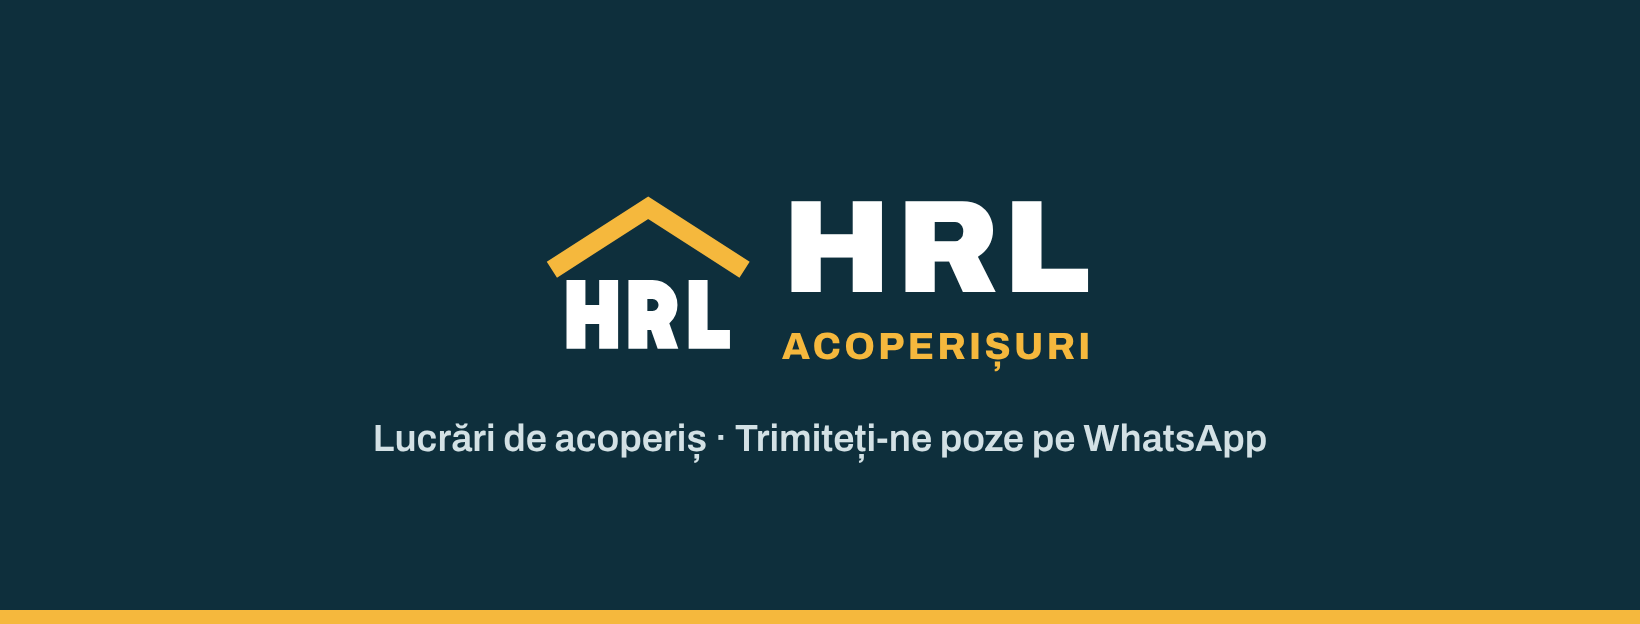
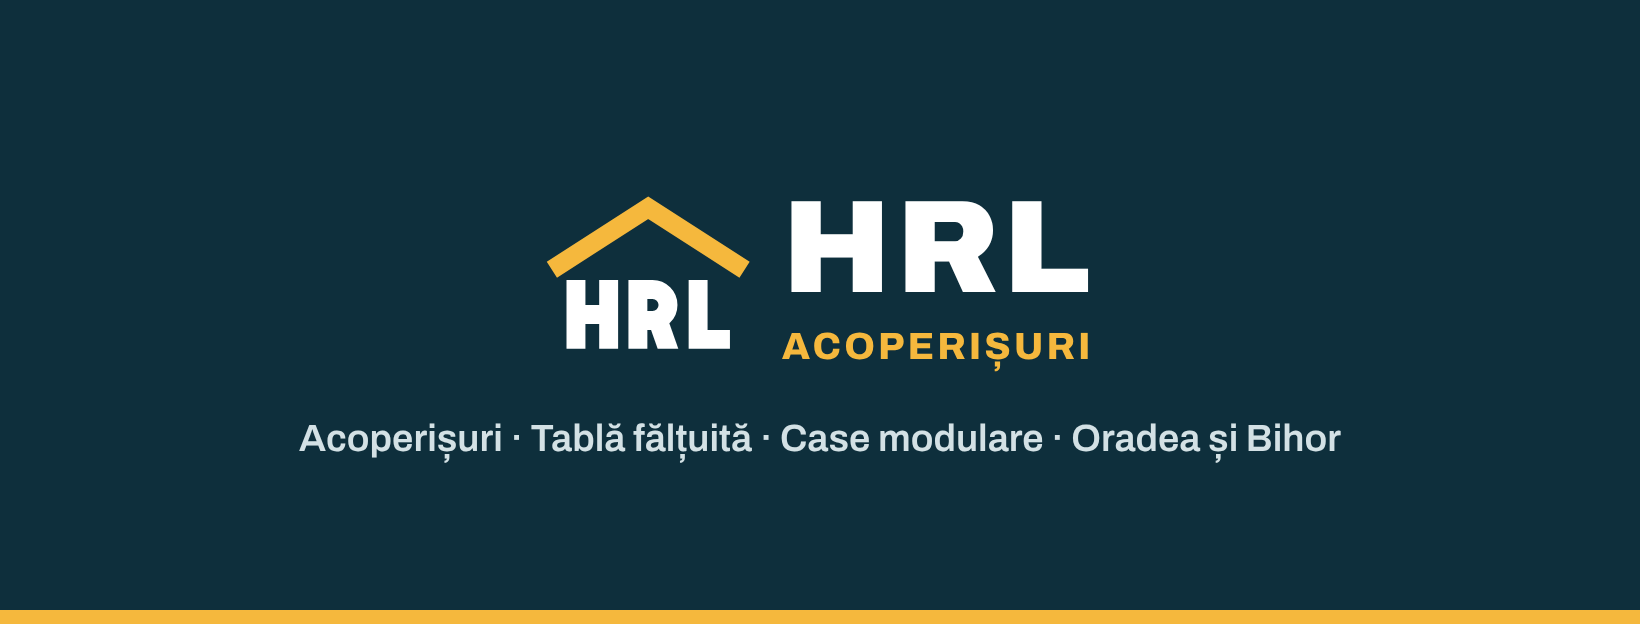
HRL Acoperișuri: his full list of jobs, all of Bihor, new cover tagline
Claude-Session: https://claude.ai/code/session_01UEuiXVKSENRnYrTC71c9hz

Changed region(s): [[0.1866, 0.6699, 0.8085, 0.7308]]

diff --git a/hrl-acoperisuri/brand/sursa-brand.html b/hrl-acoperisuri/brand/sursa-brand.html
@@ -19,7 +19,7 @@
 <br>
 <div class="logo light" id="logoalb"><svg xmlns="http://www.w3.org/2000/svg" viewBox="0 -3 120 93" role="img" aria-label="HRL Acoperișuri"><polyline points="4,41 60,5 116,41" fill="none" stroke="#F5B83D" stroke-width="11" stroke-linejoin="miter" stroke-linecap="butt"/><path d="M18.0,47V87M37.0,47V87M18.0,67H37.0" stroke="#FFFFFF" stroke-width="11" fill="none"/><path d="M54.0,47V87M54.0,52.5H62.5A9,9 0 0 1 62.5,70.5H54.0" stroke="#FFFFFF" stroke-width="11" fill="none" stroke-linejoin="miter"/><polygon points="59.5,70 71.5,70 77.5,87 65.5,87" fill="#FFFFFF"/><path d="M89.0,47V81.5H107.5" stroke="#FFFFFF" stroke-width="11" fill="none" stroke-linejoin="miter"/></svg><div><div class="w1">HRL</div><div class="w2">ACOPERIȘURI</div></div></div>
 <div id="profil"><svg xmlns="http://www.w3.org/2000/svg" viewBox="0 -3 120 93" role="img" aria-label="HRL Acoperișuri"><polyline points="4,41 60,5 116,41" fill="none" stroke="#F5B83D" stroke-width="11" stroke-linejoin="miter" stroke-linecap="butt"/><path d="M18.0,47V87M37.0,47V87M18.0,67H37.0" stroke="#FFFFFF" stroke-width="11" fill="none"/><path d="M54.0,47V87M54.0,52.5H62.5A9,9 0 0 1 62.5,70.5H54.0" stroke="#FFFFFF" stroke-width="11" fill="none" stroke-linejoin="miter"/><polygon points="59.5,70 71.5,70 77.5,87 65.5,87" fill="#FFFFFF"/><path d="M89.0,47V81.5H107.5" stroke="#FFFFFF" stroke-width="11" fill="none" stroke-linejoin="miter"/></svg></div>
-<div id="coperta"><div class="logo light"><svg xmlns="http://www.w3.org/2000/svg" viewBox="0 -3 120 93" role="img" aria-label="HRL Acoperișuri"><polyline points="4,41 60,5 116,41" fill="none" stroke="#F5B83D" stroke-width="11" stroke-linejoin="miter" stroke-linecap="butt"/><path d="M18.0,47V87M37.0,47V87M18.0,67H37.0" stroke="#FFFFFF" stroke-width="11" fill="none"/><path d="M54.0,47V87M54.0,52.5H62.5A9,9 0 0 1 62.5,70.5H54.0" stroke="#FFFFFF" stroke-width="11" fill="none" stroke-linejoin="miter"/><polygon points="59.5,70 71.5,70 77.5,87 65.5,87" fill="#FFFFFF"/><path d="M89.0,47V81.5H107.5" stroke="#FFFFFF" stroke-width="11" fill="none" stroke-linejoin="miter"/></svg><div><div class="w1">HRL</div><div class="w2">ACOPERIȘURI</div></div></div><div class="tag">Lucrări de acoperiș · Trimiteți-ne poze pe WhatsApp</div></div>
+<div id="coperta"><div class="logo light"><svg xmlns="http://www.w3.org/2000/svg" viewBox="0 -3 120 93" role="img" aria-label="HRL Acoperișuri"><polyline points="4,41 60,5 116,41" fill="none" stroke="#F5B83D" stroke-width="11" stroke-linejoin="miter" stroke-linecap="butt"/><path d="M18.0,47V87M37.0,47V87M18.0,67H37.0" stroke="#FFFFFF" stroke-width="11" fill="none"/><path d="M54.0,47V87M54.0,52.5H62.5A9,9 0 0 1 62.5,70.5H54.0" stroke="#FFFFFF" stroke-width="11" fill="none" stroke-linejoin="miter"/><polygon points="59.5,70 71.5,70 77.5,87 65.5,87" fill="#FFFFFF"/><path d="M89.0,47V81.5H107.5" stroke="#FFFFFF" stroke-width="11" fill="none" stroke-linejoin="miter"/></svg><div><div class="w1">HRL</div><div class="w2">ACOPERIȘURI</div></div></div><div class="tag">Acoperișuri · Tablă fălțuită · Case modulare · Oradea și Bihor</div></div>
 <script>
 // "ACOPERIȘURI" is spread to the width of "HRL" once the font has loaded.
 document.fonts.ready.then(()=>{for(const l of document.querySelectorAll('.logo')){const a=l.querySelector('.w1'),c=l.querySelector('.w2'),r=document.createRange();

diff --git a/hrl-acoperisuri/README.md b/hrl-acoperisuri/README.md
@@ -1,13 +1,13 @@
 # HRL Acoperișuri
 
-Brand kit and texts for the Facebook page, Instagram account and WhatsApp Business profile of a roofing firm. Added on 16 Nov 2026.
+Brand kit and texts for the Facebook page, Instagram account and WhatsApp Business profile of a roofing and construction firm (roofs, standing-seam metal, modular houses, timber work, terraces, renovations). Added on 16 Nov 2026.
 
-**The idea behind the texts:** short and practical. The customer sends a few photos of the roof, the town and the job, and gets an answer. The texts never promise prices, years in business, guarantees or numbers of jobs.
+**The idea behind the texts:** short and practical. The customer sends a few photos, the town and the job, and gets an answer. The texts never promise prices, years in business, guarantees or numbers of jobs.
 
 **Before publishing:**
-- Area: Oradea, Bihor (confirmed by Toma, 16 Nov 2026).
+- Area: Oradea and every town and village in Bihor and nearby (confirmed by Toma, 16 Nov 2026).
 - Customer number: 0738 049 791 (confirmed by Toma, 16 Nov 2026). It is used everywhere: buttons, WhatsApp link and About text.
-- Remove any service he doesn't offer from the lists below (check *acoperișuri noi*, *jgheaburi*, *mansarde*, *dulgherie*, *termoizolație*).
+- Services: the list below is the full list he gave Toma (16 Nov 2026). Don't add others.
 - Posts: only his own photos and jobs. No stock photos presented as his work.
 
 ## Brand
@@ -38,30 +38,33 @@ Files are in `brand/` (`sursa-brand.html` regenerates them):
 | Field | Text |
 |---|---|
 | Page name | HRL Acoperișuri |
-| Category | Roofing Service (Serviciu de acoperișuri), plus Contractor |
+| Category | Roofing Service (Serviciu de acoperișuri), plus Contractor and Home Improvement |
 | Username | `hrlacoperisuri` (if taken: `hrl.acoperisuri`) |
-| Bio (max 101 characters; this one is 85) | `HRL Acoperișuri: lucrări de acoperiș în Oradea, Bihor. Trimiteți-ne poze pe WhatsApp.` |
-| Service area | Oradea, Bihor |
+| Bio (max 101 characters; this one is 97) | `Acoperișuri, tablă fălțuită, case modulare, terase și reabilitări în Oradea și tot județul Bihor.` |
+| Service area | Oradea, plus Bihor County (*Județul Bihor*) |
 | Button | Send WhatsApp message (*Trimiteți mesaj pe WhatsApp*), number 0738 049 791 |
 
 **Details / About:**
 ```
-HRL Acoperișuri se ocupă de acoperișul casei dumneavoastră: vă spunem ce e de făcut și vă facem o ofertă.
+HRL Acoperișuri lucrează în Oradea și în toate comunele, satele și localitățile din județul Bihor și din împrejurimi.
 
 Ce facem:
-• Acoperișuri noi și înlocuiri de acoperiș
-• Reparații și infiltrații
-• Jgheaburi și burlane
-• Mansarde, dulgherie, termoizolație
+• Acoperișuri
+• Tablă fălțuită
+• Case modulare din lemn, din polistiren sau pe structură metalică
+• Construcții din lemn
+• Terase
+• Reabilitări
+• Lucrări la monumente istorice
 
 Cum cereți o ofertă:
-1. Trimiteți-ne pe WhatsApp câteva poze cu acoperișul
+1. Trimiteți-ne pe WhatsApp câteva poze sau o schiță
 2. Spuneți-ne localitatea
 3. Spuneți-ne ce lucrare doriți
 Vă răspundem cu pașii următori și o ofertă.
 
 WhatsApp: wa.me/40738049791
-Zona: Oradea, Bihor.
+Zona: Oradea, tot județul Bihor și împrejurimile.
 ```
 
 ## Instagram
@@ -73,11 +76,12 @@ Zona: Oradea, Bihor.
 | Category | Roofing Service |
 | Link | `https://wa.me/40738049791`, titled `Trimiteți poze pe WhatsApp` |
 
-**Bio** (max 150 characters; this one is 85, or 89 if Instagram counts each emoji as 2):
+**Bio** (max 150 characters; this one is 139, or 143 if Instagram counts each emoji as 2):
 ```
-🏠 Lucrări de acoperiș
-📍 Oradea, Bihor
-📷 Trimiteți-ne poze cu acoperișul pe WhatsApp 👇
+🏠 Acoperișuri · Tablă fălțuită · Case modulare
+🪵 Construcții din lemn · Terase · Reabilitări
+📍 Oradea și județul Bihor
+📷 Poze pe WhatsApp 👇
 ```
 
 ## WhatsApp Business
@@ -88,14 +92,14 @@ Zona: Oradea, Bihor.
 - **Category:** Home Improvement (*Îmbunătățiri pentru locuință*)
 - **Description:**
 ```
-Lucrări de acoperiș în Oradea, Bihor. Trimiteți-ne poze cu acoperișul, localitatea și ce lucrare doriți, și vă răspundem cu o ofertă.
+Acoperișuri, tablă fălțuită, case modulare (lemn, polistiren, structură metalică), construcții din lemn, terase, reabilitări și monumente istorice. Oradea și tot județul Bihor. Trimiteți-ne poze, localitatea și ce lucrare doriți, și vă răspundem cu o ofertă.
 ```
 - **Greeting message:**
 ```
 Bună ziua! Mulțumim pentru mesaj. Ca să vă putem da detalii și un preț corect, trimiteți-ne vă rog:
-1. 2–3 poze cu acoperișul sau cu zona cu problema
+1. 2–3 poze cu acoperișul, casa sau locul lucrării
 2. Localitatea
-3. Ce lucrare doriți (reparație, acoperiș nou, jgheaburi sau altceva)
+3. Ce lucrare doriți (acoperiș, tablă fălțuită, casă modulară, terasă, reabilitare sau altceva)
 Vă răspundem cât mai repede.
 ```
 
@@ -103,13 +107,13 @@ Vă răspundem cât mai repede.
 
 Use only his real photos and jobs. Don't invent numbers, years or guarantees. Fill the brackets from what he tells you about each job.
 
-1. **Introduction:** a photo of a roof he finished (or the cover image if he has none yet), plus:
+1. **Introduction:** a photo of a job he finished (or the cover image if he has none yet), plus:
    ```
-   Bine ați venit la HRL Acoperișuri! Lucrăm la acoperișuri în Oradea, Bihor. Trimiteți-ne pe WhatsApp câteva poze cu acoperișul și vă spunem ce e de făcut: wa.me/40738049791
+   Bine ați venit la HRL Acoperișuri! Facem acoperișuri, tablă fălțuită, case modulare, construcții din lemn, terase și reabilitări, în Oradea și în tot județul Bihor. Trimiteți-ne pe WhatsApp câteva poze și vă spunem ce e de făcut: wa.me/40738049791
    ```
 2. **A finished job:** his own before and after photos, plus:
    ```
-   Înainte și după, în [localitate]. [Ce s-a făcut: de ex. țiglă nouă / tablă nouă / jgheaburi noi / reparație la coamă]. Aveți o problemă asemănătoare? Trimiteți-ne poze pe WhatsApp.
+   Înainte și după, în [localitate]. [Ce s-a făcut: de ex. acoperiș din tablă fălțuită / casă modulară din lemn / terasă / reabilitare]. Vă gândiți la ceva asemănător? Trimiteți-ne poze pe WhatsApp.
    ```
 3. **What to check before winter:** his own photo of a roof or gutters, plus:
    ```
@@ -124,4 +128,4 @@ Use only his real photos and jobs. Don't invent numbers, years or guarantees. Fi
 
 1. He (or Toma, with access for him) creates the Facebook page, Instagram account and WhatsApp Business profile with these texts, then adds Toma as a page admin.
 2. Upload `brand/profil-1080.png` as the profile picture and `brand/coperta-facebook-1640x624.png` as the Facebook cover.
-3. Lead form and ads: follow `../playbooks/meta-lead-form.md`.
+3. Lead form and ads: follow `../playbooks/meta-lead-form.md`. Target Oradea and Bihor County. Other roofing clients advertise in București and Ilfov, so there is no area overlap.
